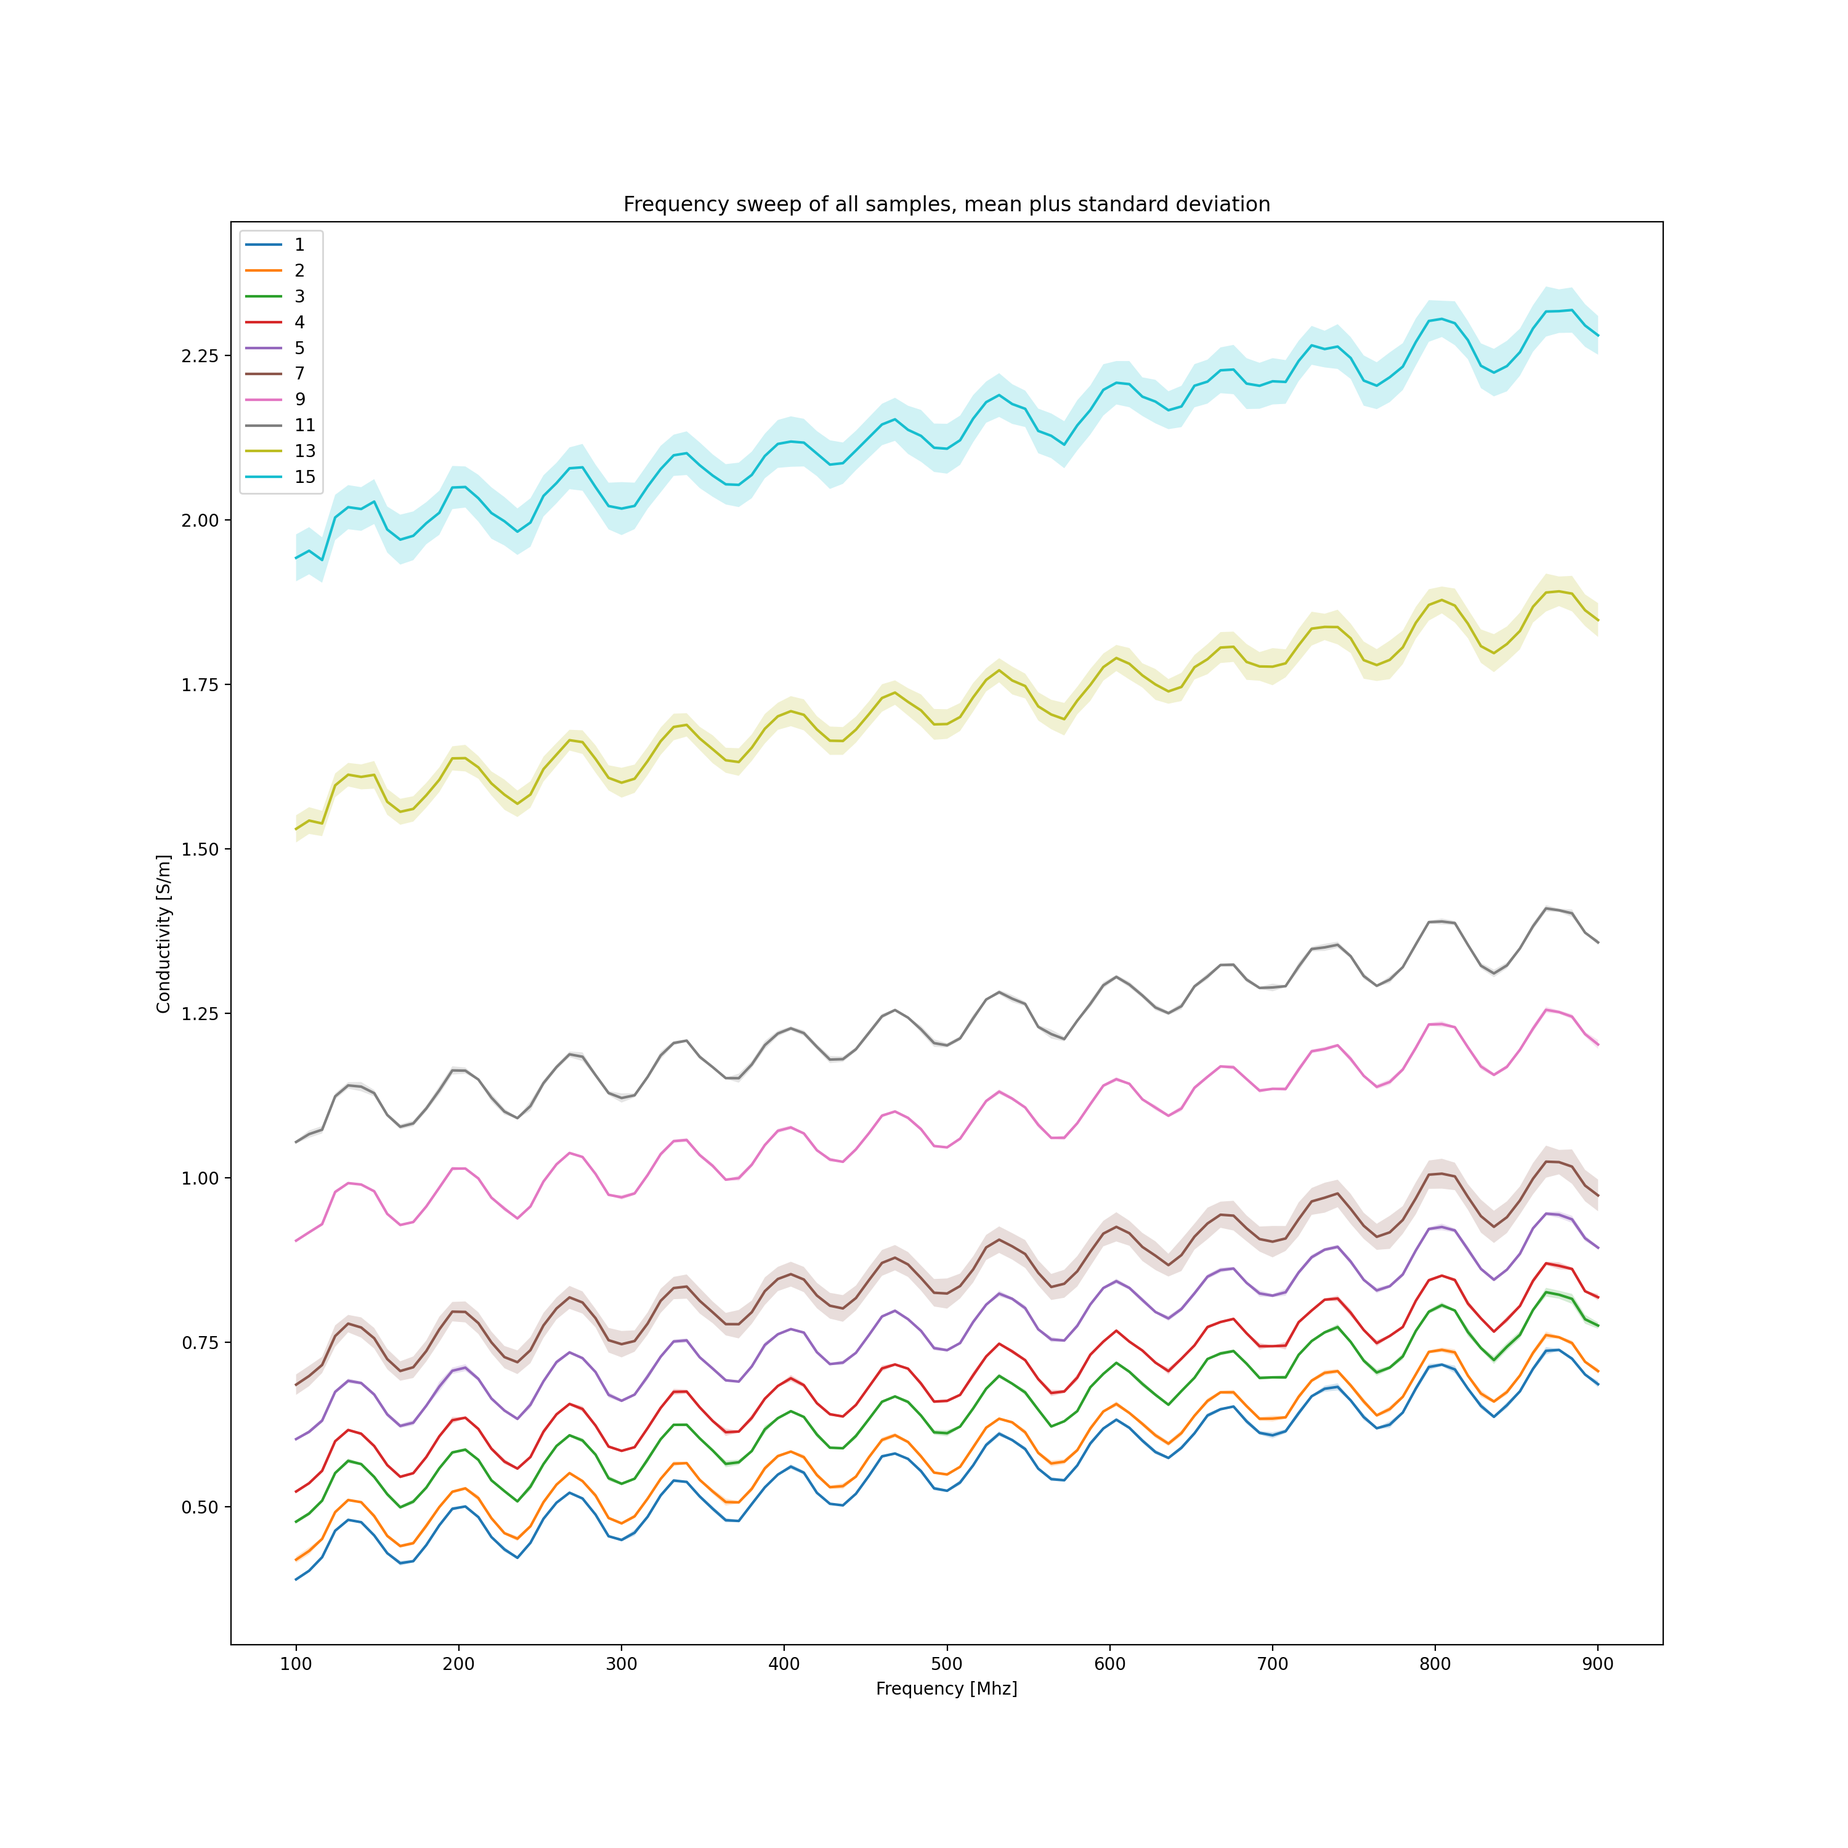
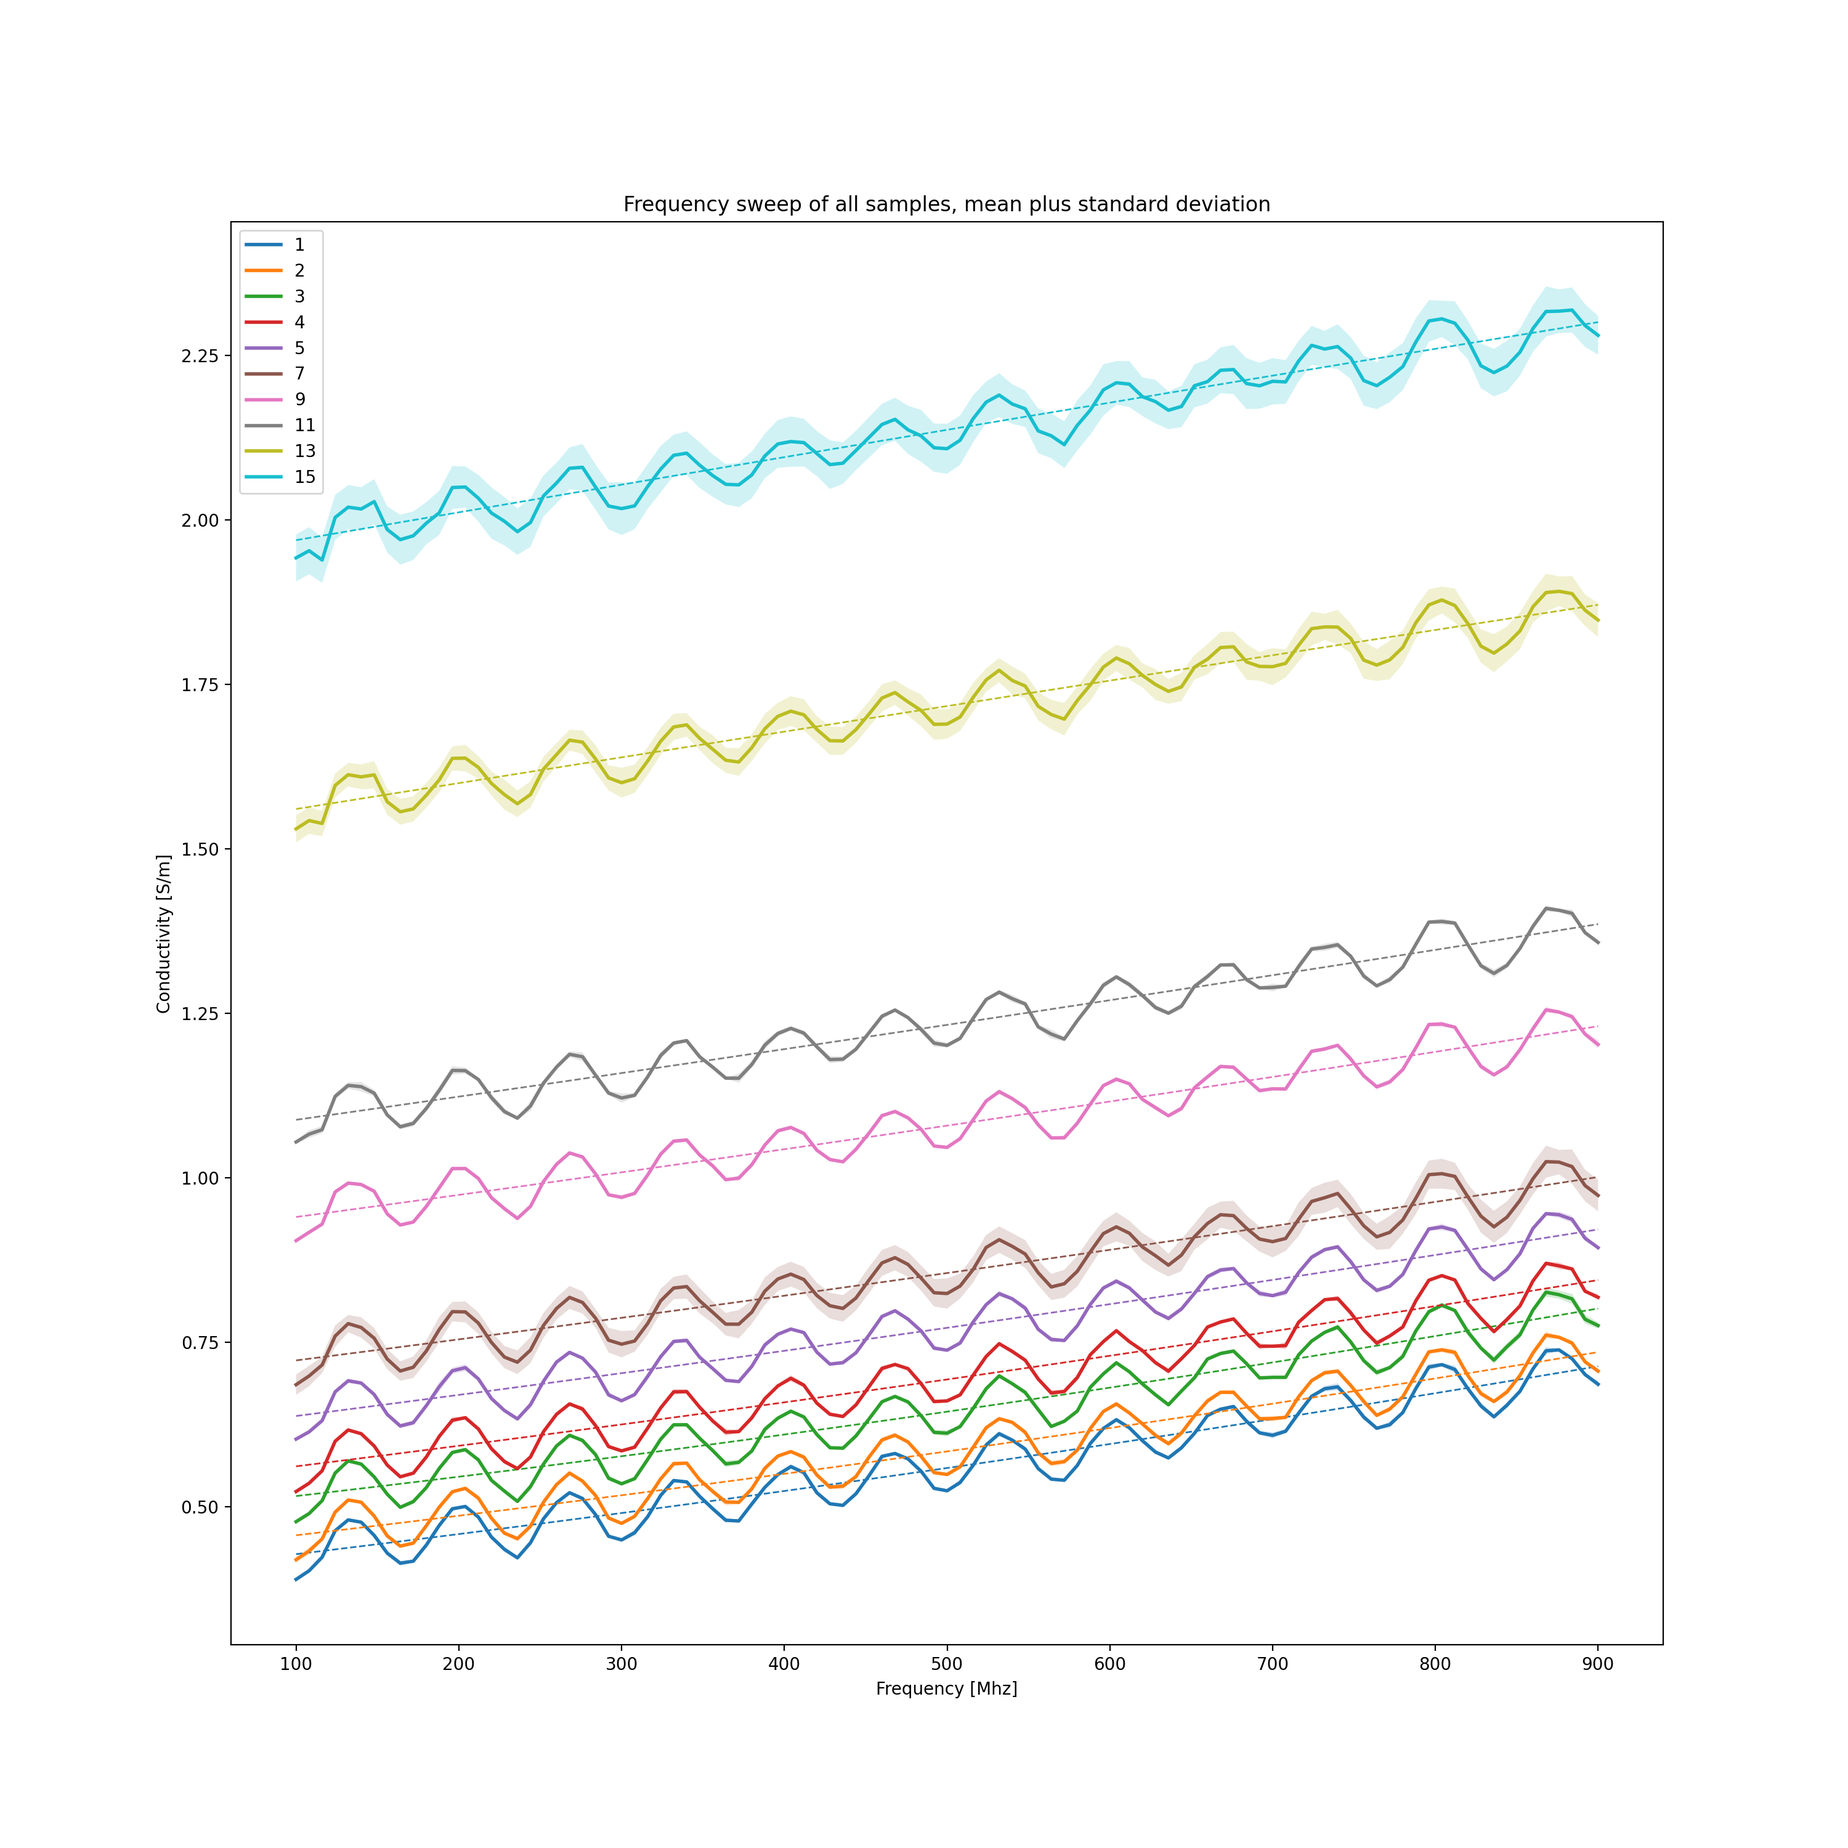
Updated plots

Changed region(s): [[0.155, 0.682, 0.868, 0.837]]

diff --git a/Helmholtz_recon.py b/Helmholtz_recon.py
@@ -1,0 +1,179 @@
+import numpy as np
+from scipy.signal import convolve2d, convolve
+from scipy.ndimage import gaussian_filter
+
+def Helmholtz(M, voxs=1e-3, ks = 3, eps_out = False):
+    '''Calculates the conductivity using a finite difference kernel
+    Parameters:
+        M (Array):      Complex input array to calculate conductivity of
+        voxs (float):   voxel size in m
+        ks (int):       kernel size, now implemented: 3
+        eps_out(bool):  export permittivity or not
+
+    Returns:
+        sigma (Array):  Array with the calculated conductivty
+        eps (Array):    Array with the calculated permittivity
+    '''
+    mu0 = np.pi*4e-7
+    omega = 2*np.pi*128e6
+    eps0 = 8.85e-12
+
+    dim = len(M.shape)
+    if dim == 2:
+        LM = lap2D(M,ks)
+    elif dim == 3:
+        LM = lap3D(M,ks)
+    else:
+        assert 'Matrix dimensions are not 2D or 3D'
+    sigma = np.imag(LM/M)/(mu0*omega*voxs**2)
+    eps = np.real(LM/M)/(mu0*omega**2*eps0*voxs**2)
+    if eps_out:
+        return sigma, eps
+    else:
+        return sigma
+
+
+def Helmholtz_ph(M, voxs=1e-3, ks = 3):
+    '''Calculates the conductivity with the phase based Helmholtz recon
+    and usnig a finite difference kernel 
+    Parameters:
+        M (Array):      phase to calculate conductivity from 
+        voxs (float):   voxel size in m
+        ks (int):       kernel size, now implemented: 3, 773
+
+    Returns:
+        sigma (Array): Array with the calculated conductivty
+    '''
+    mu0 = np.pi*4e-7
+    omega = 2*np.pi*128e6
+
+    dim = len(M.shape)
+    if dim == 2:
+        sigma = lap2D(M, ks)/(mu0*omega*voxs**2)
+    elif dim == 3:
+        sigma = lap3D(M, ks)/(mu0*omega*voxs**2)
+    else:
+        assert 'Matrix dimensions are not 2D or 3D'
+    return sigma
+
+
+def lap2D(M, ks):
+    '''Calculates the laplacian of a 2D field using finite differencing
+
+    Parameters:
+        M (Array): 2D matrix of which to calculate the laplacian with format
+                    Nx x Ny
+
+    Returns:
+        LM (Array): 2D torch tensor with Laplacian values
+    '''
+    if len(M.shape) != 2:
+        assert 'Matrix does not have 2 dimensions, make sure input is Nx x Ny'
+    if ks == 3:
+        Lk = (np.array([[0, 1, 0], [1, -4, 1], [0, 1, 0]])) # 3pt laplacian kernel in 2D
+    elif ks == 7:
+        Lk = gen_7pt_K_2d()
+    else:
+        assert 'kernel size not implemented'
+        
+    return convolve2d(M, Lk, mode='same')
+
+
+def lap3D(M, ks):
+    '''Calculates the laplacian of a 2D field using finite differencing
+
+    Parameters:
+        M (Array): 3D matrix of which to calculate the laplacian with format
+                    Nx x Ny x Nz
+
+    Returns:
+        LM (Array): 3D numpy array with Laplacian values
+    '''
+    if len(M.shape) != 3:
+        assert 'Matrix does not have 2 dimensions, make sure input is Nx x Ny'
+    if ks == 3:
+        Lk = (np.array([[[0, 0, 0], [0, 1, 0], [0, 0, 0]], 
+                        [[0, 1, 0], [1, -6, 1], [0, 1, 0]], 
+                        [[0, 0, 0], [0, 1, 0], [0, 0, 0]]])) # 3pt laplacian kernel in 3D
+    elif ks == 7:
+        Lk = gen_7pt_K_3d()
+
+    else:
+        assert 'kernel size not implemented'
+
+    return convolve(M, Lk, mode='same')
+
+
+def smooth_HH(M, fac=5, type = 'Gaussian'):
+    '''Smoothes the results of the noisy helmholtz reconstruction
+
+    Parameters:
+        M (Array):      3D array with reconstructed values
+        fac (int):      factor for the smoothing. For 'Gaussian' fac = sigma
+                        for 'Mean' fac = kernelsize in all dimensions
+        type (string):  type of smoothing, either "Gaussian": gaussian smoothing kernel
+                        or "Mean": mean smoothing kernel
+
+    Returns:
+                        filtered array
+    '''
+    if type == 'Gaussian':
+        return gaussian_filter(M, fac)
+    elif type == 'Mean':
+        dim = len(M.shape)
+        if dim == 2:
+            Lk = np.ones([fac,fac])/(fac**2)
+            return convolve2d(M, Lk, mode='same')
+        elif dim == 3:
+            Lk = np.ones([fac,fac,fac])/(fac**3)
+            return convolve(M, Lk, mode='same')
+        else:
+            assert 'Matrix dimensions are not 2D or 3D'
+    else:
+        assert 'Only "Gaussian" and "Mean" are implemented'
+
+# From here define kernel functions, be careful, normalization is not yet correct. 
+def gen_7pt_K_3d():
+    ''' Generates 7 pt finite difference kernel for the laplacian in 3D.
+    '''
+    Lk = np.zeros([7,7,7])
+    Kx = (np.array([[[0.25, 0.5, 0.25], [0.5, 1, 0.5], [0.25, 0.5, 0.25]],
+                [[0.5, 1, 0.5], [1, 2, 1], [0.5, 1, 0.5]],
+                [[-0.25, -0.5, -0.25], [-0.5, -1, -0.5], [-0.25, -0.5, -0.25]],
+                [[-1, -2, -1], [-2, -4, -2], [-1, -2, -1]],
+                [[-0.25, -0.5, -0.25], [-0.5, -1, -0.5], [-0.25, -0.5, -0.25]],
+                [[0.5, 1, 0.5], [1, 2, 1], [0.5, 1, 0.5]],
+                [[0.25, 0.5, 0.25], [0.5, 1, 0.5], [0.25, 0.5, 0.25]]]))
+    
+    Ky = (np.array([[[0.25, 0.5, 0.25], [0.5, 1, 0.5], [-0.25, -0.5, -0.25], [-1, -2, -1], [-0.25, -0.5, -0.25], [0.5, 1, 0.5], [0.25, 0.5, 0.25]],
+                [[0.5, 1, 0.5], [1, 2, 1], [-0.5, -1, -0.5], [-2, -4, -2], [-0.5, -1, -0.5], [1, 2, 1], [0.5, 1, 0.5]],
+                [[0.25, 0.5, 0.25], [0.5, 1, 0.5], [-0.25, -0.5, -0.25], [-1, -2, -1], [-0.25, -0.5, -0.25], [0.5, 1, 0.5], [0.25, 0.5, 0.25]]]))
+    
+    Kz = (np.array([[[0.25, 0.5, -0.25, -1, -0.25, 0.5, 0.25], [0.5, 1, -0.5, -2, -0.5, 1, 0.5], [0.25, 0.5, -0.25, -1, -0.25, 0.5, 0.25]],
+                [[0.5, 1, -0.5, -2, -0.5, 1, 0.5], [1, 2, -1, -4, -1, 2, 1], [0.5, 1, -0.5, -2, -0.5, 1, 0.5]],
+                [[0.25, 0.5, -0.25, -1, -0.25, 0.5, 0.25], [0.5, 1, -0.5, -2, -0.5, 1, 0.5], [0.25, 0.5, -0.25, -1, -0.25, 0.5, 0.25]]]))
+
+    Lk[:,2:5,2:5] = Kx
+    Lk[2:5,:,2:5] = Lk[2:5,:,2:5] + Ky
+    Lk[2:5,2:5,:] = Lk[2:5,2:5,:] + Kz
+    return Lk/64
+
+def gen_7pt_K_2d():
+    ''' Generates 7 pt finite difference kernel for the laplacian in 2D.
+    !!!Normalization is not yet exact!!!
+    '''
+    Lk = n
+    Lk = np.zeros([7,7])
+    Kx = (np.array([[0.25, 0.5, 0.25],
+                [0.5, 1, 0.5],
+                [-0.25, -0.5, -0.25],
+                [-1, -2, -1],
+                [-0.25, -0.5, -0.25],
+                [0.5, 1, 0.5],
+                [0.25, 0.5, 0.25]]))
+    
+    Ky = (np.array([[0.5, 1, -0.5, -2, -0.5, 1, 0.5], [1, 2, -1, -4, -1, 2, 1], [0.5, 1, -0.5, -2, -0.5, 1, 0.5]]))
+
+    Lk[:,2:5] = Kx
+    Lk[2:5,:] = Lk[2:5,:] + Ky
+    return Lk/64*3

diff --git a/R1 and R2 comparison per sample.py b/R1 and R2 comparison per sample.py
@@ -47,45 +47,44 @@ def read_file(file):
             cond.append(float(result[2]) * eps0 * 2 * pi * float(result[0]))
     return freq, cond
 
-
-if __name__ == "__main__":
-    # assign directory and initiate dictionaries
-    directory = 'C:\\Users\\20203226\\OneDrive - TU Eindhoven\\Bachelor end project - BEP\\230510\\Round2\\'
-    samples_dict = {}
-
+def make_df(directory, samples_dict):
     # iterate over files in that directory
     for filename in os.listdir(directory):
         f = os.path.join(directory, filename)
         # checking if it is a file
         if os.path.isfile(f):
             print(filename)
-            #format the name of the file and get the frequency and conductivity
+            # format the name of the file and get the frequency and conductivity
             fname_splitted = filename.replace('.', '_').split('_')
             freq, cond = read_file(f)
 
-            #add the measurements of the different sample to the dictionairy
+            # add the measurements of the different sample to the dictionairy
             sample_number = int(fname_splitted[1][1:])
             if sample_number not in samples_dict:
                 samples_dict[sample_number] = {'Frequency': freq, fname_splitted[2]: cond}
             else:
                 samples_dict[sample_number][fname_splitted[2]] = cond
+    return samples_dict
 
-    #initiate dataframes that contain the means and standard deviation of all sample for all frequencies.
-    all_samples_mean = {'Frequency': samples_dict[1]['Frequency']}
-    all_samples_std = {'Frequency': samples_dict[1]['Frequency']}
-
-    # Plotting:
-    fig = plt.figure(figsize=(30, 30))
-
+def plot_df(samples_dict, all_samples_mean, all_samples_std):
     for name, dict_ in samples_dict.items(): #Loop over all the samples
         #make a dataframe from the dictionary obtained
         df = pd.DataFrame(dict_).set_index('Frequency')
 
         # calculate and store the mean and stand deviation of the sample's dataframe
         df['mean'] = df.mean(axis=1)
-        all_samples_mean[name] = df['mean'].tolist()
         df['standard deviation'] = df.loc[:, df.columns != 'mean'].std(axis=1)
-        all_samples_std[name] = df['standard deviation'].tolist()
+
+        if name in all_samples_mean:
+            temp_array = np.array([all_samples_mean[name], df['mean'].tolist()])
+            all_samples_mean[name] = np.average(temp_array, axis=0)
+
+            temp_array_std = np.array([all_samples_std[name], df['standard deviation'].tolist()])
+            all_samples_std[name] = np.average(temp_array_std, axis=0)
+
+        else:
+            all_samples_mean[name] = df['mean'].tolist()
+            all_samples_std[name] = df['standard deviation'].tolist()
 
         #PLot the first three measurements of the sample
         ax = plt.subplot(4, 4, int(name))
@@ -98,10 +97,10 @@ if __name__ == "__main__":
         coeff = np.flip(coeff)
 
         # Make the fitting work for all orders
-        y_fit = [0] * len(df.index)
+        y_fit = [0]*len(df.index)
         for order in range(len(coeff)):
             y_fit = y_fit + coeff[order] * (df.index ** order)
-        ax.plot(df.index, y_fit)
+        ax.plot(df.index, y_fit, '--')
 
         # Formatting
         ax.title.set_text("Sample " + str(name) + ": " + samples_salt[name])
@@ -109,28 +108,47 @@ if __name__ == "__main__":
         plt.ylabel('Conductivity [S/m]')
         plt.legend(['M1', 'M2', 'M3', 'mean fitted'])
 
+if __name__ == "__main__":
+    # assign directory and initiate dictionaries
+    directory_R1 = 'C:\\Users\\20203226\\OneDrive - TU Eindhoven\\Bachelor end project - BEP\\230510\\Round1\\'
+    directory_R2 = 'C:\\Users\\20203226\\OneDrive - TU Eindhoven\\Bachelor end project - BEP\\230510\\Round2\\'
+    samples_dict_R1 = {}
+    samples_dict_R2 = {}
+
+    samples_dict_R1 = make_df(directory_R1, samples_dict_R1)
+    samples_dict_R2 = make_df(directory_R2, samples_dict_R2)
+
+    #initiate dataframes that contain the means and standard deviation of all sample for all frequencies.
+    all_samples_mean = {'Frequency': samples_dict_R1[1]['Frequency']}
+    all_samples_std = {'Frequency': samples_dict_R1[1]['Frequency']}
+
+    # Plotting:
+    fig = plt.figure(figsize=(30, 30))
+    plot_df(samples_dict_R1,all_samples_mean,all_samples_std)
+    plot_df(samples_dict_R2,all_samples_mean,all_samples_std)
+
+
     fig.show()
-    fig.savefig('Round_2_v2.png')
+    fig.savefig('Round_1_vs_2_persample.png')
 
     # Mean and standarad deviation from all samples at all frequencies stored to csv file
     df_all_samples_mean = pd.DataFrame(all_samples_mean).set_index('Frequency')
     df_all_samples_mean = df_all_samples_mean.reindex(sorted(df_all_samples_mean.columns), axis=1)
-    df_all_samples_mean.to_csv('all_samples_mean2.csv', sep=';')
-
+    # df_all_samples_mean.to_csv('all_samples_mean.csv', sep=';')
+    #
     df_all_samples_std = pd.DataFrame(all_samples_std).set_index('Frequency')
     df_all_samples_std = df_all_samples_std.reindex(sorted(df_all_samples_std.columns), axis=1)
-    df_all_samples_std.to_csv('all_samples_std2.csv', sep=';')
+    # df_all_samples_std.to_csv('all_samples_std.csv', sep=';')
 
     # Make a figure with all the samples:
     fig2 = plt.figure(figsize=(15, 15))
     ax = plt.subplot(111)
     for sample in df_all_samples_mean.columns:
-        # Loop over all the samples
+        #Loop over all the samples
         yfit = df_all_samples_mean[sample]
         std_dev = df_all_samples_std[sample]
         mean_line, = ax.plot(yfit, label=str(sample), linewidth='2')
-        ax.fill_between(df_all_samples_mean.index, yfit - std_dev, yfit + std_dev,
-                        # Use the standard deviation to make the lines thicker.
+        ax.fill_between(df_all_samples_mean.index, yfit - std_dev, yfit + std_dev, #Use the standard deviation to make the lines thicker.
                         alpha=0.2, label='_nolegend_')
 
         # Fitting a line to the mean:
@@ -147,8 +165,8 @@ if __name__ == "__main__":
     plt.xlabel('Frequency [Mhz]')
     plt.ylabel('Conductivity [S/m]')
     plt.title('Frequency sweep of all samples, mean plus standard deviation')
-    plt.legend(list(df_all_samples_mean.columns))
+    plt.legend()
     fig2.show()
-    fig2.savefig('Round_2_all.png',dpi=200)
+    fig2.savefig('Round_1_all.png',dpi=200)
 
     pass

diff --git a/Round1_comparison.py b/Round1_comparison.py
@@ -128,16 +128,26 @@ if __name__ == "__main__":
         #Loop over all the samples
         yfit = df_all_samples_mean[sample]
         std_dev = df_all_samples_std[sample]
-        ax.plot(yfit)
+        mean_line, = ax.plot(yfit, label=str(sample), linewidth='2')
         ax.fill_between(df_all_samples_mean.index, yfit - std_dev, yfit + std_dev, #Use the standard deviation to make the lines thicker.
                         alpha=0.2, label='_nolegend_')
+
+        # Fitting a line to the mean:
+        coeff = np.polyfit(df_all_samples_mean.index, yfit, 2)
+        coeff = np.flip(coeff)
+
+        # Make the fitting work for all orders
+        mean_fit = [0] * len(df.index)
+        for order in range(len(coeff)):
+            mean_fit = mean_fit + coeff[order] * (df.index ** order)
+        ax.plot(df.index, mean_fit, '--', label='_nolegend_', linewidth='1', color=mean_line.get_color())
 
     # Plot formatting:
     plt.xlabel('Frequency [Mhz]')
     plt.ylabel('Conductivity [S/m]')
     plt.title('Frequency sweep of all samples, mean plus standard deviation')
-    plt.legend(list(df_all_samples_mean.columns))
+    plt.legend()
     fig2.show()
-    # fig2.savefig('Round_1_all.png',dpi=200)
+    fig2.savefig('Round_1_all.png',dpi=200)
 
     pass
